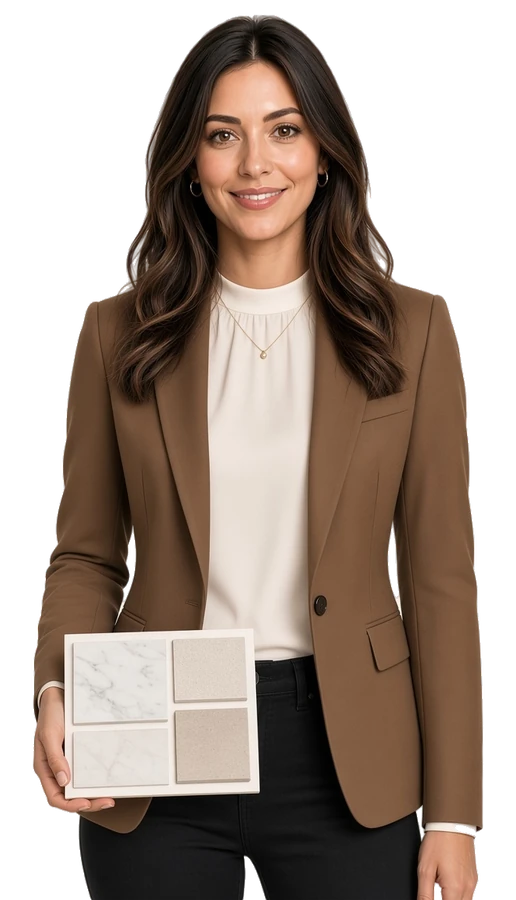
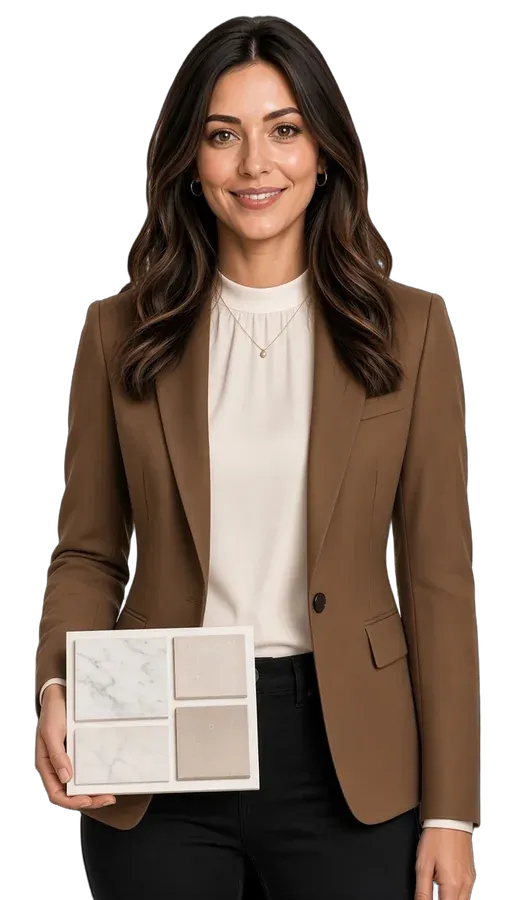
Rotate Gigi through six looks on each page load. (#36)
Replace the single cutout with the six approved WebP looks and advance a localStorage index every time the page loads.

diff --git a/components/chat-widget.tsx b/components/chat-widget.tsx
@@ -8,6 +8,7 @@ import { Input } from "@/components/ui/input";
 import Link from "next/link";
 import { DesignLink } from "@/components/design-link";
 import { GigiCutout, GigiFace } from "@/components/gigi-cutout";
+import { advanceGigiLook, type GigiLook } from "@/lib/gigi-looks";
 import {
   CHAT_AGENT_NAME,
   CHAT_ANSWERS,
@@ -149,6 +150,7 @@ function reservedDockRect(bottomOffset: number, withBubble: boolean) {
 export function ChatWidget({ raised = false, formPage = false }: { raised?: boolean; formPage?: boolean }) {
   const pathname = usePathname() || "/";
   const allowBubble = shouldShowGreeting(pathname);
+  const [look, setLook] = useState<GigiLook | null>(null);
   const [open, setOpen] = useState(false);
   const [typing, setTyping] = useState(false);
   const [draft, setDraft] = useState("");
@@ -167,6 +169,14 @@ export function ChatWidget({ raised = false, formPage = false }: { raised?: bool
   const bubbleReadyRef = useRef(false);
   const bubbleHiddenRef = useRef(true);
   const openRef = useRef(false);
+
+  useLayoutEffect(() => {
+    try {
+      setLook(advanceGigiLook(window.localStorage));
+    } catch {
+      setLook("gigi-tiles");
+    }
+  }, []);
 
   useEffect(() => {
     bubbleReadyRef.current = bubbleReady;
@@ -368,7 +378,7 @@ export function ChatWidget({ raised = false, formPage = false }: { raised?: bool
         >
           <header className="flex items-start justify-between gap-3 border-b border-border bg-fig px-4 py-3 text-fig-foreground">
             <div className="flex items-start gap-3">
-              <GigiFace size={48} alt="" className="shrink-0" />
+              <GigiFace look={look} size={48} alt="" className="shrink-0" />
               <div>
                 <p className="text-base font-semibold leading-5">{CHAT_AGENT_NAME}</p>
                 <p className="mt-0.5 text-xs leading-4 text-fig-muted">{GIGI_HEADER_SUBLINE}</p>
@@ -386,7 +396,7 @@ export function ChatWidget({ raised = false, formPage = false }: { raised?: bool
                 className={cn("flex items-end gap-2", turn.role === "you" ? "justify-end" : "justify-start")}
               >
                 {turn.role === "assistant" ? (
-                  <GigiFace size={28} alt="" className="mb-0.5 shrink-0" />
+                  <GigiFace look={look} size={28} alt="" className="mb-0.5 shrink-0" />
                 ) : null}
                 <p
                   className={cn(
@@ -483,7 +493,7 @@ export function ChatWidget({ raised = false, formPage = false }: { raised?: bool
           data-testid="gigi-launcher"
         >
           <span className="gigi-ground" aria-hidden="true" />
-          <GigiCutout loadFull={open} />
+          <GigiCutout look={look} loadFull={open} />
         </button>
       ) : null}
     </div>

diff --git a/components/gigi-cutout.tsx b/components/gigi-cutout.tsx
@@ -1,26 +1,28 @@
 import { cn } from "cn";
+import { gigiLookSrc, type GigiLook } from "@/lib/gigi-looks";
 
 /** Full-torso Gigi cutout for the chat launcher. Desktop uses the
  *  larger WebP; the small source is eager. The larger file is lazy-loaded
  *  when the chat opens on small screens. */
 export function GigiCutout({
+  look,
   className,
   loadFull = false,
 }: {
+  look: GigiLook | null;
   className?: string;
   loadFull?: boolean;
 }) {
+  if (!look) return null;
+  const full = gigiLookSrc(look, "full");
+  const small = gigiLookSrc(look, "sm");
   return (
-    <picture className={cn("pointer-events-none", className)}>
-      {loadFull ? <source type="image/webp" srcSet="/images/gigi/gigi-tiles.webp" /> : null}
-      <source
-        type="image/webp"
-        media="(min-width: 768px)"
-        srcSet="/images/gigi/gigi-tiles.webp"
-      />
+    <picture className={cn("pointer-events-none", className)} data-gigi-look={look}>
+      {loadFull ? <source type="image/webp" srcSet={full} /> : null}
+      <source type="image/webp" media="(min-width: 768px)" srcSet={full} />
       <img
         className="gigi-cutout"
-        src="/images/gigi/gigi-tiles-sm.webp"
+        src={small}
         alt=""
         width={298}
         height={520}
@@ -34,10 +36,12 @@ export function GigiCutout({
 /** Small frameless upper-torso cutout for the open-chat header and
  *  message rows. No circle, border, or background. */
 export function GigiFace({
+  look,
   size = 40,
   className,
   alt = "",
 }: {
+  look: GigiLook | null;
   size?: number;
   className?: string;
   alt?: string;
@@ -48,15 +52,17 @@ export function GigiFace({
       className={cn("inline-flex shrink-0 items-end justify-center overflow-hidden bg-transparent", className)}
       style={{ width: size, height }}
     >
-      <img
-        src="/images/gigi/gigi-tiles-sm.webp"
-        alt={alt}
-        width={size}
-        height={height}
-        decoding="async"
-        draggable={false}
-        className="h-full w-auto max-w-none bg-transparent object-cover object-[50%_8%]"
-      />
+      {look ? (
+        <img
+          src={gigiLookSrc(look, "sm")}
+          alt={alt}
+          width={size}
+          height={height}
+          decoding="async"
+          draggable={false}
+          className="h-full w-auto max-w-none bg-transparent object-cover object-[50%_8%]"
+        />
+      ) : null}
     </span>
   );
 }

diff --git a/lib/gigi-looks.test.ts b/lib/gigi-looks.test.ts
@@ -1,0 +1,66 @@
+import assert from "node:assert/strict";
+import test from "node:test";
+import { GIGI_LOOKS, GIGI_LOOK_STORAGE_KEY, advanceGigiLook, gigiLookSrc, type GigiLookStorage } from "./gigi-looks";
+
+function memoryStorage(initial?: string): GigiLookStorage & { value: string | null } {
+  const store = { value: initial ?? null };
+  return {
+    get value() {
+      return store.value;
+    },
+    getItem() {
+      return store.value;
+    },
+    setItem(_key: string, value: string) {
+      store.value = value;
+    },
+  };
+}
+
+test("starts at the first look and advances on every read", () => {
+  const storage = memoryStorage();
+  const seen = GIGI_LOOKS.map(() => advanceGigiLook(storage));
+  assert.deepEqual(seen, [...GIGI_LOOKS]);
+  assert.equal(storage.value, String(GIGI_LOOKS.length - 1));
+  assert.equal(advanceGigiLook(storage), GIGI_LOOKS[0]);
+  assert.equal(storage.value, "0");
+});
+
+test("stores the index under the page-load key", () => {
+  const keys: string[] = [];
+  const storage: GigiLookStorage = {
+    getItem(key) {
+      keys.push(key);
+      return null;
+    },
+    setItem(key) {
+      keys.push(key);
+    },
+  };
+  advanceGigiLook(storage);
+  assert.deepEqual(keys, [GIGI_LOOK_STORAGE_KEY, GIGI_LOOK_STORAGE_KEY]);
+});
+
+test("wraps a stored index and ignores a broken value", () => {
+  assert.equal(advanceGigiLook(memoryStorage("5")), GIGI_LOOKS[0]);
+  assert.equal(advanceGigiLook(memoryStorage("2")), GIGI_LOOKS[3]);
+  assert.equal(advanceGigiLook(memoryStorage("nope")), GIGI_LOOKS[0]);
+  assert.equal(advanceGigiLook(memoryStorage("-1")), GIGI_LOOKS[0]);
+});
+
+test("still returns a look when storage throws", () => {
+  const storage: GigiLookStorage = {
+    getItem() {
+      throw new Error("blocked");
+    },
+    setItem() {
+      throw new Error("blocked");
+    },
+  };
+  assert.equal(advanceGigiLook(storage), GIGI_LOOKS[0]);
+});
+
+test("points each look at a full and a small webp", () => {
+  assert.equal(gigiLookSrc("gigi-zellige", "full"), "/images/gigi/gigi-zellige.webp");
+  assert.equal(gigiLookSrc("gigi-fan-deck", "sm"), "/images/gigi/gigi-fan-deck-sm.webp");
+});

diff --git a/lib/gigi-looks.ts b/lib/gigi-looks.ts
@@ -1,0 +1,50 @@
+/** Gigi's on-page looks, in rotation order. */
+export const GIGI_LOOKS = [
+  "gigi-tiles",
+  "gigi-countertop",
+  "gigi-shower-board",
+  "gigi-edge-profile",
+  "gigi-zellige",
+  "gigi-fan-deck",
+] as const;
+
+export type GigiLook = (typeof GIGI_LOOKS)[number];
+
+/** Index of the look shown on this page load. Advanced on every load. */
+export const GIGI_LOOK_STORAGE_KEY = "gigi-look-index";
+
+export type GigiLookStorage = {
+  getItem(key: string): string | null;
+  setItem(key: string, value: string): void;
+};
+
+function mod(value: number, length: number) {
+  return ((value % length) + length) % length;
+}
+
+/**
+ * Advance the stored index by one and return the look for this page load.
+ * A missing or unreadable index starts at the first look.
+ */
+export function advanceGigiLook(storage: GigiLookStorage): GigiLook {
+  let next = 0;
+  try {
+    const raw = storage.getItem(GIGI_LOOK_STORAGE_KEY);
+    if (raw != null && raw !== "") {
+      const previous = Number.parseInt(raw, 10);
+      if (Number.isInteger(previous)) next = mod(previous + 1, GIGI_LOOKS.length);
+    }
+  } catch {
+    return GIGI_LOOKS[0];
+  }
+  try {
+    storage.setItem(GIGI_LOOK_STORAGE_KEY, String(next));
+  } catch {
+    /* private mode still shows a look for this load */
+  }
+  return GIGI_LOOKS[next];
+}
+
+export function gigiLookSrc(look: GigiLook, size: "full" | "sm") {
+  return size === "full" ? `/images/gigi/${look}.webp` : `/images/gigi/${look}-sm.webp`;
+}
